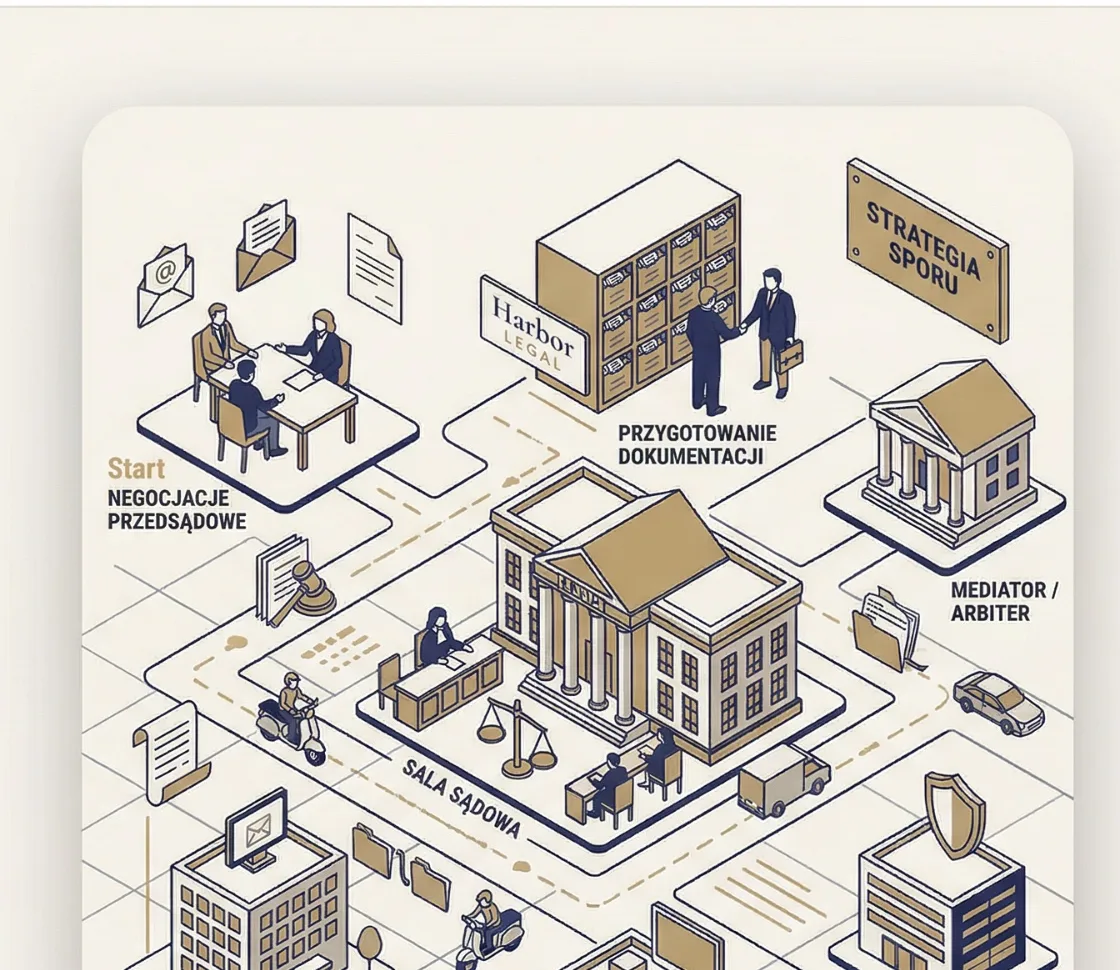
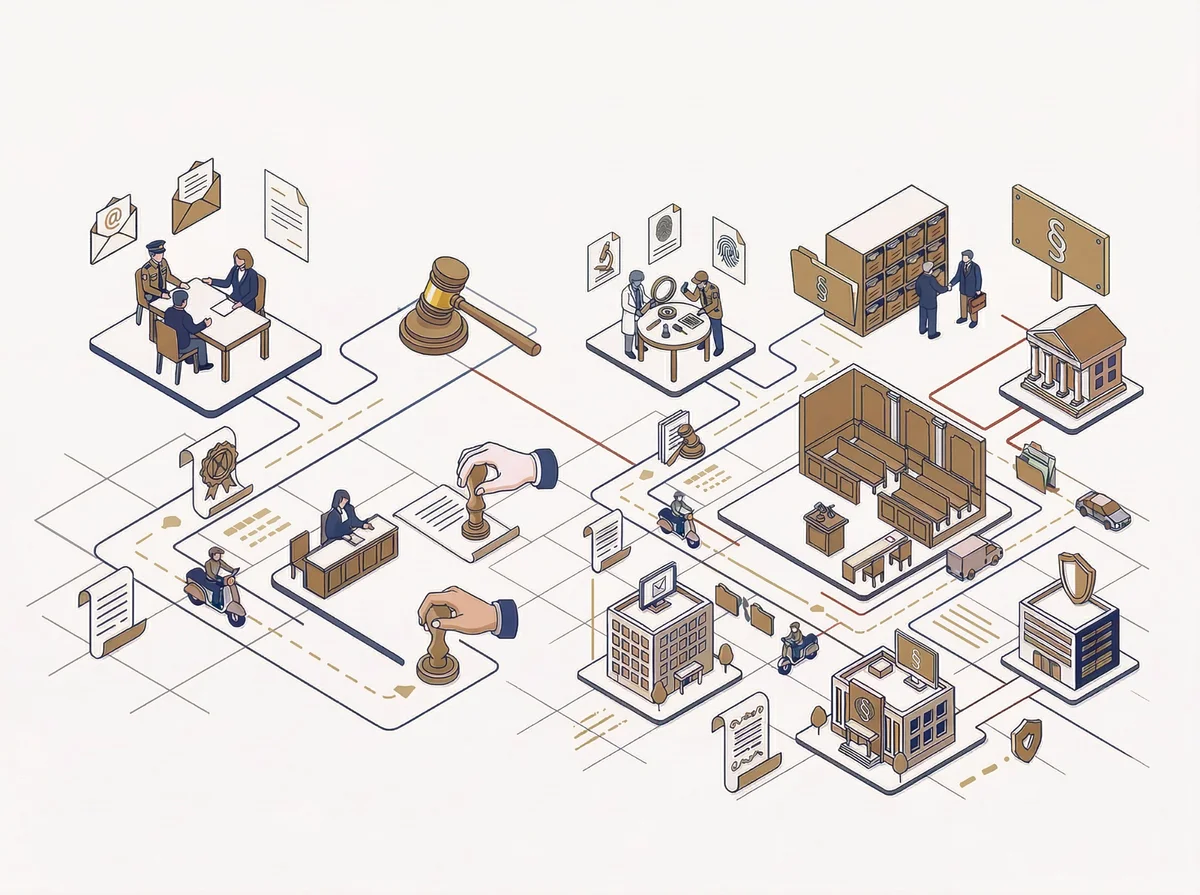
fix: poprawki layoutu obrazów — strona główna, usługi, spory

diff --git a/index.html b/index.html
@@ -99,16 +99,9 @@
   <div class="container">
     <div class="section-tag reveal">Specjalizacje</div>
     <div class="section-title reveal">Prawo, które rozumie<br>Twój biznes.</div>
-    <div class="about-split" style="margin-bottom:48px;">
-      <div>
-        <p class="section-desc reveal reveal-delay-1" style="text-align:left;">Łączę wiedzę regulacyjną z&nbsp;praktycznym doświadczeniem w&nbsp;skalowaniu firm — od seed do IPO, od pierwszej umowy po spór sądowy.</p>
-        <div class="spec-intro reveal reveal-delay-2" style="max-width:none;margin:24px 0 0;font-size:15px;color:var(--ink-soft);line-height:1.8;text-align:left;">
-          Przez ponad 13&nbsp;lat budowałem doświadczenie na styku prawa, technologii i&nbsp;biznesu — jako General Counsel, doradca fintechów, negocjator transakcji M&A i&nbsp;pełnomocnik w&nbsp;sporach. Dziś pracuję w&nbsp;trzech powiązanych obszarach, które razem obejmują pełen cykl życia firmy: od strukturyzacji i&nbsp;regulacji, przez bieżącą obsługę, po ochronę interesów w&nbsp;sporze.
-        </div>
-      </div>
-      <div class="about-image reveal reveal-delay-1">
-        <img src="/images/hero-mooring.webp" alt="Cumownik w porcie — pewne zakotwiczenie prawne" width="800" height="1071" loading="lazy">
-      </div>
+    <p class="section-desc reveal reveal-delay-1">Łączę wiedzę regulacyjną z&nbsp;praktycznym doświadczeniem w&nbsp;skalowaniu firm — od seed do IPO, od pierwszej umowy po spór sądowy.</p>
+    <div class="spec-intro reveal reveal-delay-2" style="max-width:720px;margin:32px auto 0;font-size:15px;color:var(--ink-soft);line-height:1.8;text-align:center;">
+      Przez ponad 13&nbsp;lat budowałem doświadczenie na styku prawa, technologii i&nbsp;biznesu — jako General Counsel, doradca fintechów, negocjator transakcji M&A i&nbsp;pełnomocnik w&nbsp;sporach. Dziś pracuję w&nbsp;trzech powiązanych obszarach, które razem obejmują pełen cykl życia firmy: od strukturyzacji i&nbsp;regulacji, przez bieżącą obsługę, po ochronę interesów w&nbsp;sporze.
     </div>
     <div class="pillar-cards" id="pillarCards">
       <!-- Built dynamically by main.js from SITE.pillars -->
@@ -140,9 +133,6 @@
         <div class="oferta-block reveal reveal-delay-2">
           <div class="oferta-heading">Jak wygląda współpraca</div>
           <p class="oferta-text">Zaczynamy od bezpłatnej rozmowy (20&nbsp;min), na której poznaję Twój biznes i&nbsp;identyfikuję priorytety. Następnie proponuję model współpracy — jednorazową konsultację, abonament lub rolę Fractional GC. Bez ukrytych kosztów, z&nbsp;przejrzystymi zasadami od pierwszego dnia.</p>
-        </div>
-        <div class="section-illustration reveal" style="margin-top:24px;">
-          <img src="/images/iso-port.webp" alt="" role="presentation" width="1200" height="895" loading="lazy">
         </div>
       </div>
 

diff --git a/uslugi/index.html b/uslugi/index.html
@@ -31,19 +31,15 @@
   </div>
 </nav>
 
-<section class="pillar-hero">
-  <div class="container">
+<section class="pillar-hero" style="position:relative;overflow:hidden;">
+  <div class="hero-bg-illustration">
+    <img src="/images/iso-port-crypto.webp" alt="" role="presentation" width="1200" height="895" loading="eager" style="width:100%;height:auto;mix-blend-mode:multiply;opacity:0.85;">
+  </div>
+  <div class="container" style="position:relative;z-index:1;">
     <div class="breadcrumbs" id="breadcrumbs" data-crumbs='[{"label":"Usługi","href":"/uslugi/"}]'></div>
-    <div class="hero-split">
-      <div class="hero-split-text">
-        <div class="section-tag reveal">Usługi</div>
-        <h1 class="section-title reveal">Pełen zakres obsługi prawnej<br>dla Twojego biznesu.</h1>
-        <p class="section-desc reveal reveal-delay-1">Od regulacji fintechowych przez bieżące umowy po spory sądowe. Wybierz obszar, który dotyczy Twojej firmy.</p>
-      </div>
-      <div class="hero-split-image photo reveal reveal-delay-1">
-        <img src="/images/hero-marina.webp" alt="Marina — bezpieczna przystań dla Twojego biznesu" width="1200" height="895" loading="eager">
-      </div>
-    </div>
+    <div class="section-tag reveal">Usługi</div>
+    <h1 class="section-title reveal">Pełen zakres obsługi prawnej<br>dla Twojego biznesu.</h1>
+    <p class="section-desc reveal reveal-delay-1" style="max-width:520px;">Od regulacji fintechowych przez bieżące umowy po spory sądowe. Wybierz obszar, który dotyczy Twojej firmy.</p>
   </div>
 </section>
 

diff --git a/css/images.css b/css/images.css
@@ -104,6 +104,28 @@
   z-index: 1;
 }
 
+/* ── Hero background illustration (full-bleed behind text) ── */
+.hero-bg-illustration {
+  position: absolute;
+  top: 0;
+  right: -5%;
+  bottom: 0;
+  width: 75%;
+  z-index: 0;
+  display: flex;
+  align-items: center;
+  justify-content: flex-end;
+  overflow: hidden;
+}
+
+.hero-bg-illustration img {
+  width: 100%;
+  height: auto;
+  min-height: 100%;
+  object-fit: cover;
+  object-position: center;
+}
+
 /* ── Pillar hero overrides when using split ── */
 .pillar-hero .hero-split .section-title,
 .pillar-hero .hero-split .section-desc,
@@ -149,5 +171,13 @@
 
   .section-bg-illustration {
     display: none;
+  }
+
+  .hero-bg-illustration {
+    position: relative;
+    width: 100%;
+    right: 0;
+    margin-bottom: 24px;
+    opacity: 0.5;
   }
 }

diff --git a/uslugi/spory-i-postepowania/index.html b/uslugi/spory-i-postepowania/index.html
@@ -41,7 +41,7 @@
         <p class="section-desc reveal reveal-delay-1">Od negocjacji przedsądowych przez postępowania przed sądami powszechnymi po arbitraż i&nbsp;postępowania przed KNF, UOKiK czy UODO.</p>
       </div>
       <div class="hero-split-image iso reveal reveal-delay-1">
-        <img src="/images/iso-disputes.webp" alt="Proces sporowy — od negocjacji przez sąd po egzekucję" width="1120" height="970" loading="eager">
+        <img src="/images/iso-disputes.webp" alt="Proces sporowy — od negocjacji przez sąd po egzekucję" width="1200" height="895" loading="eager">
       </div>
     </div>
   </div>
